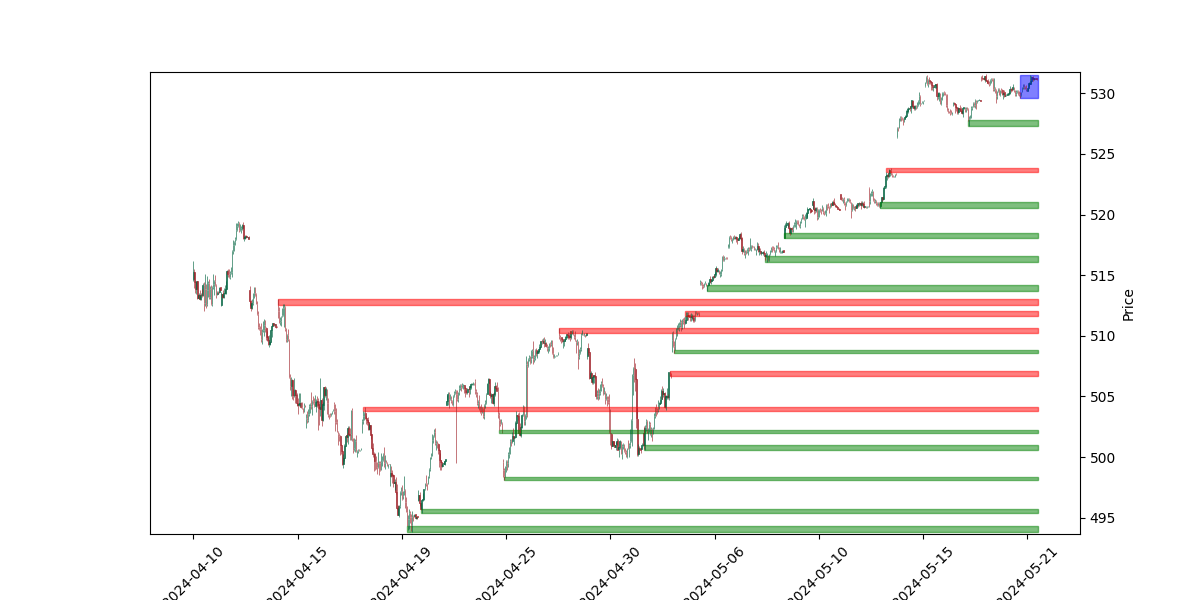
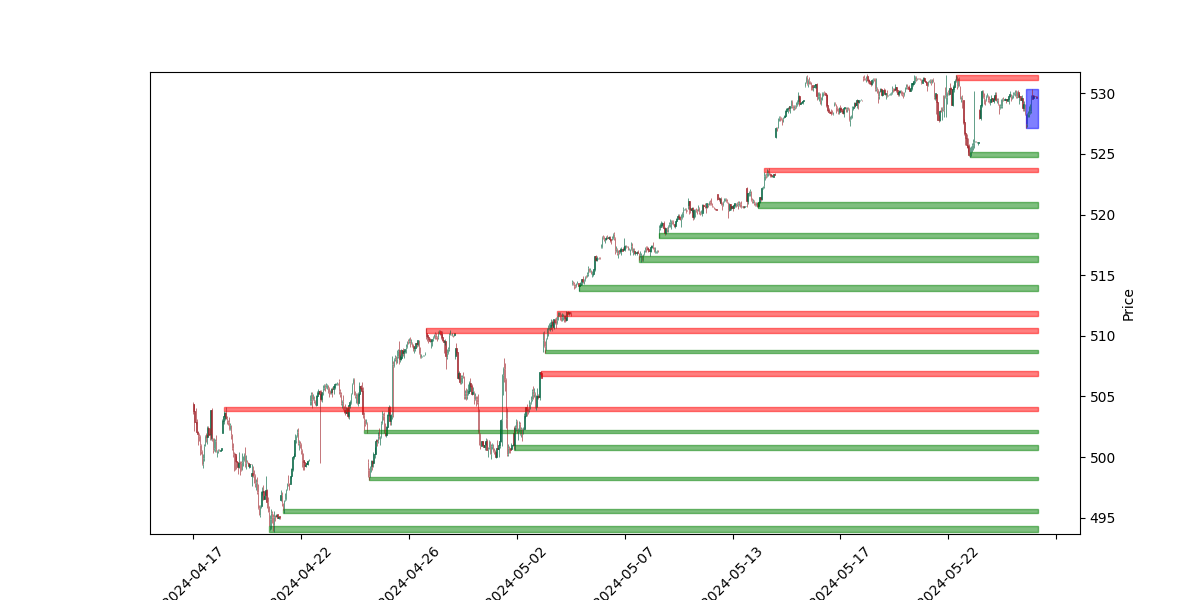
didn't know i had a 15 min candle time issue where i selected the wrong times, fixed that. didn't know i had wrong times for the longest time.

diff --git a/data_acquisition.py b/data_acquisition.py
@@ -154,16 +154,17 @@ async def get_candle_data(api_key, symbol, interval, timescale, start_date, end_
     
         print(f"response: {response}\n") # i want to print conditions somehow
 
-        # Check if 'results' key is in the data
+# Check if 'results' key is in the data
         if 'results' in data:
             #print("Results is true!!!")
             df = pd.DataFrame(data['results'])
             df['t'] = pd.to_datetime(df['t'], unit='ms')
             df.rename(columns={'v': 'volume', 'o': 'open', 'c': 'close', 'h': 'high', 'l': 'low', 't': 'timestamp'}, inplace=True)
+            
             if interval == 15:
-                corrected_df = await filter_data(df)
+                corrected_df = await filter_data(df, True, '13:30:00', '19:45:00')
             elif interval==2:
-                corrected_df = await filter_data(df, exclude_today=False)
+                corrected_df = await filter_data(df, False)
             save_to_csv(corrected_df, f"{symbol}_{interval}_{timescale}_candles.csv")
             return corrected_df
         else:
@@ -179,7 +180,7 @@ async def get_candle_data(api_key, symbol, interval, timescale, start_date, end_
 
     return pd.DataFrame()
 
-async def filter_data(df, exclude_today=True):
+async def filter_data(df, exclude_today=True, day_time_start = '14:30:00', day_time_end = '21:00:00'):
     """
     Filter the data with the following criteria:
     1) Within the week (Monday to Friday)
@@ -191,6 +192,7 @@ async def filter_data(df, exclude_today=True):
     df (DataFrame): The DataFrame to filter.
     exclude_today (bool, optional): Whether to exclude today's data. Defaults to True.
     """
+    print(f'day_time_start: {day_time_start}; day_time_end: {day_time_end}')
     # Keep data for Monday (0) to Friday (4)
     weekday_df = df[df['timestamp'].dt.dayofweek < 5]
 
@@ -200,8 +202,8 @@ async def filter_data(df, exclude_today=True):
         weekday_df = weekday_df[weekday_df['timestamp'].dt.date < today.date()]
 
     # Keep data within market hours
-    market_open_time = pd.Timestamp('14:30:00').time()#09:30:00
-    market_close_time = pd.Timestamp('21:00:00').time()#16:00:00
+    market_open_time = pd.Timestamp(day_time_start).time()#09:30:00
+    market_close_time = pd.Timestamp(day_time_end).time()#16:00:00
     market_hours_df = weekday_df[(weekday_df['timestamp'].dt.time >= market_open_time) & (weekday_df['timestamp'].dt.time <= market_close_time)]
     #market_hours_df = df[(df['timestamp'].dt.time >= market_open_time) & (df['timestamp'].dt.time <= market_close_time)]
     # Reset the index to reorder the DataFrame
